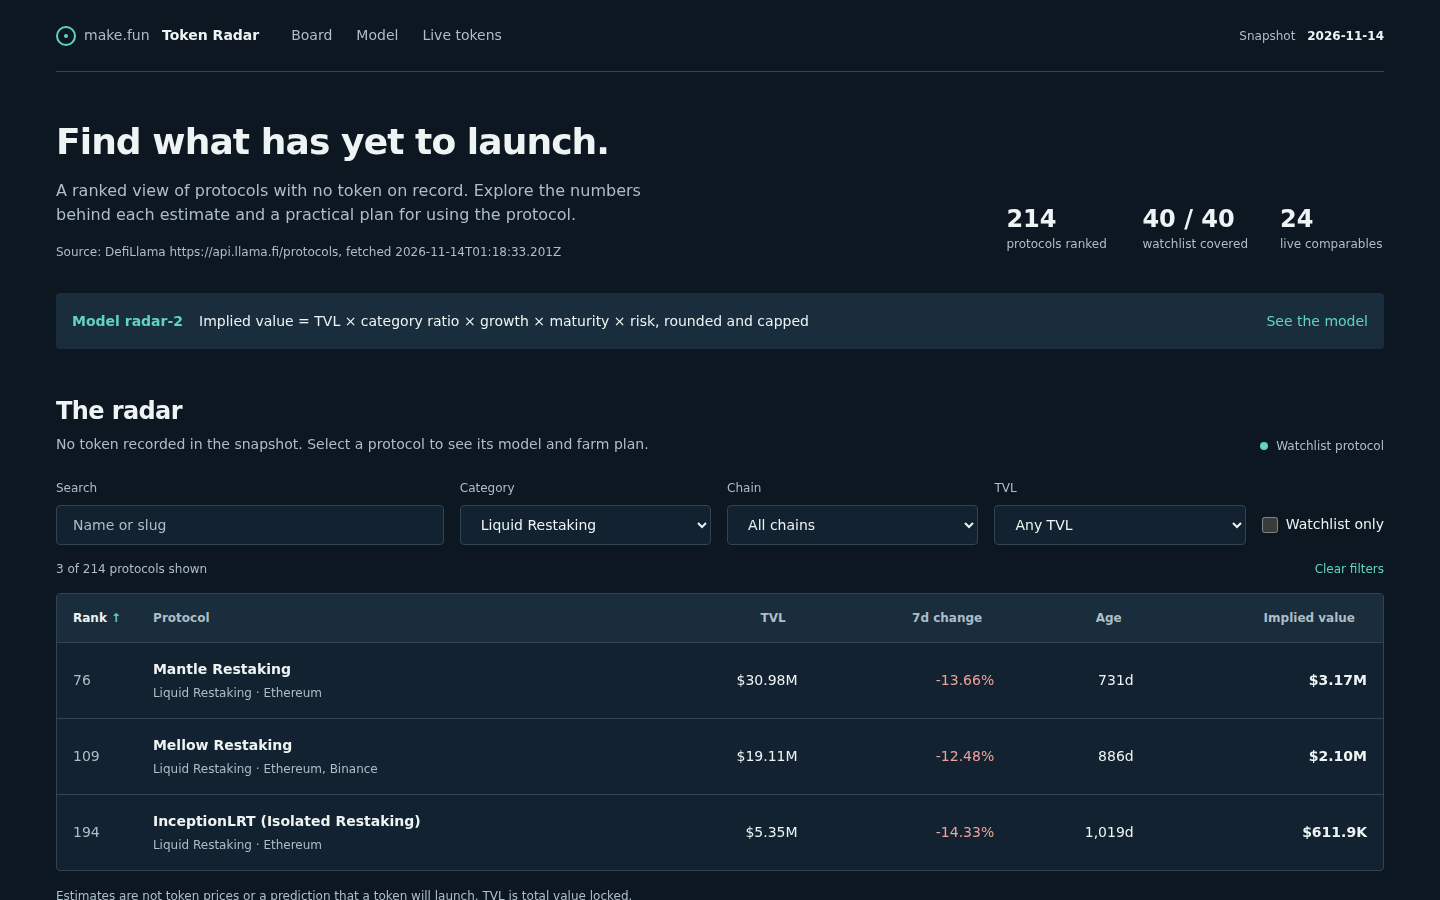
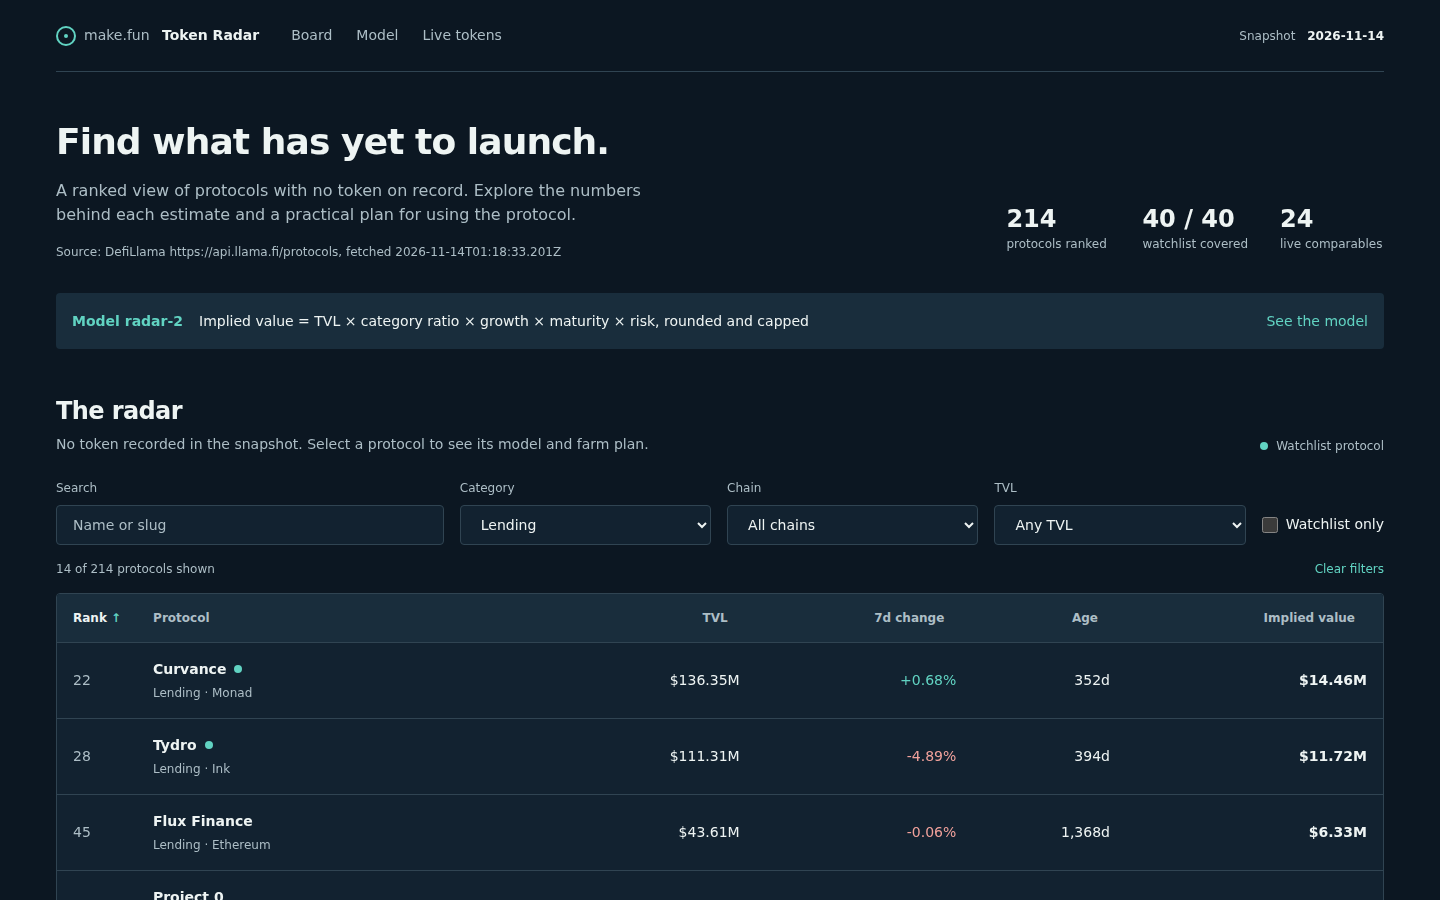
plans: build each farm plan from the protocol's own TVL, chain, trend and age

diff --git a/lib/model.ts b/lib/model.ts
@@ -14,8 +14,9 @@
 // The board includes every watchlist slug and up to 280 eligible pre-token protocols below the floor,
 // selected by TVL. Early candidates exclude CEX, versioned pools, and named wrapped or staking products.
 // The separate live view holds up to 24 market-cap-ranked protocols, excluding CEX.
-// Farm amounts of $25 or $10 and times of 5 to 15 minutes are illustrative, not observed fees or
-// eligibility claims. Network and product fees vary, and no reward is guaranteed.
+// Farm plans follow the recorded TVL band for the test ticket, the first listed chain for gas and
+// bridging, the recorded seven-day change and the listing age. Amounts and times are examples, not
+// observed fees or eligibility claims. Network and product fees vary, and no reward is guaranteed.
 
 /** One protocol in the sealed snapshot. */
 export interface SnapshotProtocol {
@@ -336,60 +337,279 @@ export function stepText(step: FarmStep): string {
 interface FarmContext {
   name: string;
   chain: string;
+  otherChains: string[];
+  category: string;
+  tvl: string;
+  depositText: string;
+  smallText: string;
+  share: string;
+  gas: string;
+  gasRange: string;
+  roundTrip: string;
+  momentum: number | null;
 }
 
-/** Actions are examples, conditional on the protocol actually supporting the product and route. */
+interface ChainGas {
+  range: string;
+  mid: number;
+}
+
+/** Typical mainnet cost of one approval plus one contract call; a plan filter, not a quote. */
+const CHAIN_GAS: Record<string, ChainGas> = {
+  Ethereum: { range: '$2 to $8', mid: 5 },
+  Arbitrum: { range: '$0.05 to $0.40', mid: 0.2 },
+  Optimism: { range: '$0.05 to $0.30', mid: 0.15 },
+  Base: { range: '$0.02 to $0.20', mid: 0.1 },
+  Binance: { range: '$0.05 to $0.30', mid: 0.15 },
+  Polygon: { range: '$0.01 to $0.10', mid: 0.04 },
+  Solana: { range: '$0.01 to $0.05', mid: 0.02 },
+  Avalanche: { range: '$0.05 to $0.60', mid: 0.3 },
+  Bitcoin: { range: '$2 to $10', mid: 6 },
+  Tron: { range: '$1 to $3', mid: 2 },
+  'Hyperliquid L1': { range: '$0.01 to $0.10', mid: 0.04 },
+  Monad: { range: '$0.01 to $0.10', mid: 0.04 },
+  Plasma: { range: '$0.01 to $0.10', mid: 0.04 },
+  Sonic: { range: '$0.01 to $0.10', mid: 0.04 },
+  Linea: { range: '$0.05 to $0.50', mid: 0.2 },
+  Scroll: { range: '$0.05 to $0.50', mid: 0.2 },
+  'zkSync Era': { range: '$0.05 to $0.50', mid: 0.2 },
+  Mantle: { range: '$0.02 to $0.20', mid: 0.08 },
+  Berachain: { range: '$0.02 to $0.20', mid: 0.08 },
+  Unichain: { range: '$0.02 to $0.20', mid: 0.08 },
+  Sui: { range: '$0.01 to $0.10', mid: 0.03 },
+  Celo: { range: '$0.01 to $0.10', mid: 0.03 },
+  Fantom: { range: '$0.01 to $0.10', mid: 0.04 },
+  xDai: { range: '$0.01 to $0.05', mid: 0.02 },
+  Sei: { range: '$0.01 to $0.10', mid: 0.04 },
+  Stellar: { range: '$0.01 to $0.05', mid: 0.02 },
+  Ripple: { range: '$0.01 to $0.05', mid: 0.02 },
+  TON: { range: '$0.01 to $0.05', mid: 0.03 },
+  Cardano: { range: '$0.10 to $0.50', mid: 0.25 },
+  'Robinhood Chain': { range: '$0.05 to $0.50', mid: 0.2 },
+  Arc: { range: '$0.01 to $0.10', mid: 0.04 },
+  Ink: { range: '$0.02 to $0.20', mid: 0.08 },
+  Katana: { range: '$0.01 to $0.10', mid: 0.04 },
+  Flare: { range: '$0.01 to $0.10', mid: 0.04 },
+};
+
+/** Gas for a chain outside the table, grouped by the fee market it resembles. */
+function chainGas(chain: string): ChainGas {
+  const known = CHAIN_GAS[chain];
+  if (known !== undefined) return known;
+  if (/bitcoin|btc|litecoin|dogecoin/i.test(chain)) return { range: '$1 to $10', mid: 4 };
+  if (/solana|sui|aptos|ton|near|stellar|ripple/i.test(chain)) return { range: '$0.01 to $0.10', mid: 0.04 };
+  if (/cosmos|osmosis|injective|kava|neutron|babylon|core|celestia|dydx/i.test(chain)) return { range: '$0.01 to $0.20', mid: 0.06 };
+  if (/eth|linea|scroll|zksync|arbitrum|optimism|base|polygon|gnosis|avalanche|fantom|celo|mantle|blast|berachain|unichain|ink|morph|world|bob|hemi|citrea|fluent|pharos|plume|stable|tempo|monad|plasma|sonic|telos|sei|x layer/i.test(chain)) {
+    return { range: '$0.02 to $0.50', mid: 0.2 };
+  }
+  return { range: '$0.10 to $2', mid: 0.5 };
+}
+
+/** How a deposit reaches the chain, stated as a typical cost rather than a quote. */
+function bridgeNote(chain: string): string {
+  if (/^ethereum$/i.test(chain)) return 'no bridge fee applies while the funds already sit on Ethereum.';
+  return 'if the funds start on Ethereum or another chain, a bridge hop costs about $1 to $5 plus gas on each side, or an exchange withdrawal avoids it.';
+}
+
+/** US dollars with thousands separators, for ticket sizes. */
+function money(n: number): string {
+  return `$${String(Math.round(n)).replace(/\B(?=(\d{3})+(?!\d))/g, ',')}`;
+}
+
+/** A short TVL label for use inside a sentence. */
+function compactUsd(n: number): string {
+  if (n >= 1_000_000_000) return `$${(n / 1_000_000_000).toFixed(2)}B`;
+  if (n >= 1_000_000) return `$${(n / 1_000_000).toFixed(1)}M`;
+  if (n >= 1_000) return `$${(n / 1_000).toFixed(0)}K`;
+  return `$${Math.round(n)}`;
+}
+
+/** The ticket as a share of recorded TVL, at a precision that survives small tickets. */
+function shareOf(part: number, whole: number): string {
+  const pct = (part / whole) * 100;
+  if (pct >= 1) return `${pct.toFixed(2)}%`;
+  if (pct >= 0.01) return `${pct.toFixed(3)}%`;
+  if (pct >= 0.000001) return `${pct.toFixed(6)}%`;
+  return 'less than 0.000001%';
+}
+
+/** An approximate dollar figure that keeps cents below one dollar. */
+function aboutUsd(n: number): string {
+  return n >= 1 ? `about $${Math.round(n)}` : `about $${n.toFixed(2)}`;
+}
+
+interface CapitalBand {
+  label: string;
+  deposit: number;
+  ceiling: string;
+}
+
+/** Test ticket and the price-impact level that would contradict the recorded TVL. */
+function capitalBand(tvl: number): CapitalBand {
+  if (tvl < 10_000_000) return { label: 'under $10M', deposit: 100, ceiling: '1%' };
+  if (tvl < 50_000_000) return { label: '$10M to $50M', deposit: 500, ceiling: '0.5%' };
+  if (tvl < 250_000_000) return { label: '$50M to $250M', deposit: 1_000, ceiling: '0.3%' };
+  return { label: 'above $250M', deposit: 5_000, ceiling: '0.1%' };
+}
+
+/** Wallet review, chain choice and the cost of reaching the first listed chain. */
+function routeStep(c: FarmContext, chainCount: number): FarmStep {
+  const route = chainCount === 0
+    ? 'No chain is recorded, so confirm the network before funding anything.'
+    : chainCount === 1
+      ? 'It is the only chain recorded, so one gas balance covers the whole test and no bridge is needed.'
+      : chainCount === 2
+        ? `The snapshot lists ${c.chain} and ${c.otherChains.join(' and ')}; the plan stays on ${c.chain} so every step shares one network.`
+        : `${chainCount} chains are recorded; this plan uses ${c.chain} for every step so the approval, the deposit and the exit stay on one route.`;
+  return {
+    text: `Open ${c.name} in a fresh wallet on ${c.chain} and find its ${c.category} product. ${route} Gas runs ${c.gasRange} per transaction; ${bridgeNote(c.chain)}`,
+    cost: '$0 of fees to review, plus the bridge fee only if funds must move',
+    time: '10 minutes',
+  };
+}
+
+/** Ticket size for the recorded TVL band, with the price impact that size implies. */
+function fundStep(c: FarmContext, band: CapitalBand): FarmStep {
+  return {
+    text: `Fund ${c.depositText} plus a buffer for gas. The snapshot records ${c.tvl} of TVL, the ${band.label} band, and ${c.depositText} is ${c.share} of that total: any price impact or fee in the preview should sit near that share, and a preview above ${band.ceiling} means the live venue is thinner than the recorded TVL suggests.`,
+    cost: `${c.depositText} test deposit plus ${c.gas}`,
+    time: '15 minutes',
+  };
+}
+
+/** The recorded seven-day change decides whether the next move is a warning or a watch. */
+function momentumStep(c: FarmContext): FarmStep {
+  if (c.momentum === null) {
+    return {
+      text: `The snapshot records no seven-day change for ${c.name}, so treat the trend as unknown rather than stable: read the TVL history in the app and keep the first ticket at ${c.smallText}.`,
+      cost: '$0 of fees to read the chart',
+      time: '5 minutes',
+    };
+  }
+  const figure = `${Math.abs(c.momentum).toFixed(2)}%`;
+  if (c.momentum < -0.05) {
+    return {
+      text: `The snapshot records TVL down ${figure} over seven days at ${c.tvl}. Before ${c.depositText} goes in, check whether the drop is asset prices falling or depositors leaving, and stay at ${c.smallText} until a week closes flat or higher.`,
+      cost: '$0 of fees to read the change',
+      time: '10 minutes',
+    };
+  }
+  if (c.momentum > 0.05) {
+    return {
+      text: `The snapshot records TVL up ${figure} over seven days at ${c.tvl}. Before adding, watch whether the next weekly figure holds and whether fee volume rises with it; TVL can jump from one large deposit without new users.`,
+      cost: '$0 of fees to watch the next print',
+      time: '10 minutes',
+    };
+  }
+  return {
+    text: `The snapshot records TVL flat over seven days at ${c.tvl}, so this is a clean week for the ${c.smallText} test; the thing to watch before adding size is the first move in either direction.`,
+    cost: '$0 of fees to read the change',
+    time: '5 minutes',
+  };
+}
+
+/** A first-week test for new listings, a trend read for mid-age ones, a withdrawal test for old ones. */
+function ageStep(c: FarmContext, age: number | null): FarmStep {
+  if (age === null) {
+    return {
+      text: `No listing date is recorded for ${c.name}, so the record cannot show whether it is early or seasoned: find the deployment date before raising size and keep the first deposit at ${c.smallText}.`,
+      cost: '$0 of fees to check the record',
+      time: '15 minutes',
+    };
+  }
+  if (age < 365) {
+    return {
+      text: `At ${age} days listed, ${c.name} is under a year old, so give it one small first week: deposit ${c.smallText} on day one, withdraw it on day seven, and only then commit the ${c.depositText} ticket.`,
+      cost: `${c.smallText} test deposit plus ${c.roundTrip}`,
+      time: '7 days',
+    };
+  }
+  if (age < 1095) {
+    const months = Math.round(age / 30.4);
+    return {
+      text: `${c.name} has about ${months} months listed, long enough to compare: read its TVL trend over that window and size the ticket from whether ${c.tvl} sits above or below the trend.`,
+      cost: '$0 of fees to read the history',
+      time: '20 minutes',
+    };
+  }
+  return {
+    text: `With ${age} days of record, ${c.name} can stand a real withdrawal test: deposit ${c.smallText}, withdraw it, and read the multi-year TVL trend before trusting the ${c.depositText} ticket to it.`,
+    cost: `${c.smallText} test deposit plus ${c.roundTrip}`,
+    time: '1 day',
+  };
+}
+
+/** Each sector keeps its own action, bound to the ticket, chain and category the row records. */
 const FARM_ACTIONS: Record<Sector, (c: FarmContext) => FarmStep[]> = {
-  Lending: ({ name, chain }) => [
-    { text: `Supply $25 of a supported asset to a ${name} lending market on ${chain}, if its minimum permits.`, cost: '$25 example deposit plus variable network fees', time: '10 minutes' },
-    { text: `After a week, check the ${name} position and withdraw a small amount if withdrawals are available.`, cost: 'Variable network fees and possible deposit losses', time: '5 minutes' },
+  Lending: (c) => [
+    { text: `Supply ${c.depositText} of an asset ${c.name} lists on ${c.chain} to the supply side of its ${c.category} market, then note the supply rate and collateral factor the app shows.`, cost: `${c.depositText} supplied plus ${c.gas}`, time: '15 minutes' },
+    { text: `If ${c.name} shows an open borrow market, borrow at most ${c.smallText} against the ${c.depositText} supplied, then check the health factor and liquidation price it reports.`, cost: `${c.smallText} borrowed plus ${c.gas}`, time: '20 minutes' },
   ],
-  DEX: ({ name, chain }) => [
-    { text: `Swap $10 of a supported token through a ${name} pool on ${chain}; review the price before confirming.`, cost: '$10 example trade plus variable swap and network fees', time: '5 minutes' },
-    { text: `If ${name} offers liquidity pools, add $25 across the two pool assets and review impermanent loss.`, cost: '$25 example liquidity plus variable network fees', time: '10 minutes' },
+  DEX: (c) => [
+    { text: `Swap ${c.smallText} through one ${c.name} pool on ${c.chain} and read the quoted price impact before signing; compare it with the ${c.share} of TVL that ticket represents.`, cost: `${c.smallText} swapped plus ${c.gas}`, time: '10 minutes' },
+    { text: `If ${c.name} shows a two-asset pool, add ${c.depositText} split across both sides on ${c.chain}, then write down the fee tier and the impermanent-loss range the app reports.`, cost: `${c.depositText} of liquidity plus ${c.gas}`, time: '20 minutes' },
   ],
-  Yield: ({ name, chain }) => [
-    { text: `Deposit $25 of a supported asset in a ${name} vault on ${chain}, if its minimum permits.`, cost: '$25 example deposit plus variable network fees', time: '10 minutes' },
-    { text: `Check the ${name} vault balance after a week and withdraw a small amount if the vault allows it.`, cost: 'Variable network fees and possible strategy losses', time: '5 minutes' },
+  Yield: (c) => [
+    { text: `Deposit ${c.depositText} into one ${c.name} ${c.category} product on ${c.chain}, after reading which strategy it runs and who can pause withdrawals.`, cost: `${c.depositText} deposited plus ${c.gas}`, time: '15 minutes' },
+    { text: `Leave ${c.name} a week, then withdraw ${c.smallText} and compare what came back with a plain hold of the same asset; that difference is the only return figure worth recording.`, cost: `${c.smallText} withdrawn plus ${c.gas}`, time: '7 days' },
   ],
-  Perp: ({ name, chain }) => [
-    { text: `If ${name} supports derivatives on ${chain}, deposit $25 of accepted margin and check the rules.`, cost: '$25 example margin plus variable network fees', time: '10 minutes' },
-    { text: `If a suitable market is available, open and close its smallest position at low leverage.`, cost: 'Variable trading fees and possible loss of margin', time: '10 minutes' },
+  Perp: (c) => [
+    { text: `Deposit ${c.depositText} of margin into ${c.name} on ${c.chain} and read the maximum leverage and liquidation price the market shows before opening anything.`, cost: `${c.depositText} of margin plus ${c.gas}`, time: '15 minutes' },
+    { text: `Open the smallest position ${c.name} allows at 2x or less, close it in the same session, and record the fees charged on the full round trip.`, cost: `${c.smallText} of position plus ${c.gas}`, time: '20 minutes' },
   ],
-  CDP: ({ name, chain }) => [
-    { text: `Supply $25 of accepted collateral to a ${name} vault on ${chain}, if its minimum permits.`, cost: '$25 example collateral plus variable network fees', time: '10 minutes' },
-    { text: `If the vault permits it, mint a small amount of its stablecoin and keep a wide liquidation buffer.`, cost: 'Variable network and stability fees; collateral is at risk', time: '10 minutes' },
+  CDP: (c) => [
+    { text: `Supply ${c.depositText} of a collateral asset ${c.name} accepts on ${c.chain} to open a vault, then read the liquidation threshold, minimum ratio and stability fee it displays.`, cost: `${c.depositText} of collateral plus ${c.gas}`, time: '20 minutes' },
+    { text: `Mint at most ${c.smallText} of stablecoin against that ${c.name} vault, keep the ratio well above the minimum, and repay all of it before the week ends.`, cost: `${c.smallText} minted plus ${c.gas}`, time: '30 minutes' },
   ],
-  'Liquid Staking-adjacent': ({ name, chain }) => [
-    { text: `Stake $25 of the asset supported by ${name} on ${chain} if the minimum and lockup are acceptable.`, cost: '$25 example stake plus variable network fees', time: '10 minutes' },
-    { text: `Check the ${name} receipt and withdrawal queue; request a small unstake if the product allows it.`, cost: 'Variable network fees and possible withdrawal delay', time: '5 minutes' },
+  'Liquid Staking-adjacent': (c) => [
+    { text: `Stake ${c.depositText} of an asset ${c.name} accepts on ${c.chain}, then read the validator set, commission and unbonding terms listed for the ${c.category} product.`, cost: `${c.depositText} staked plus ${c.gas}`, time: '15 minutes' },
+    { text: `If ${c.name} returns a receipt token, compare its balance with the ${c.depositText} staked, then request a ${c.smallText} unstake to see the queue the app reports.`, cost: `${c.smallText} unstaked plus ${c.gas}`, time: '1 day' },
   ],
-  'Bridge-adjacent': ({ name, chain }) => [
-    { text: `Use ${name} to bridge $25 of a supported asset on a route that includes ${chain}, if available.`, cost: '$25 example transfer plus variable bridge and network fees', time: '10 minutes' },
-    { text: `Check the destination wallet for the transfer, then return a small amount if a return route exists.`, cost: 'Variable bridge and network fees on the return route', time: '10 minutes' },
+  'Bridge-adjacent': (c) => [
+    { text: `Send ${c.depositText} of an asset ${c.name} supports over a route that ends on ${c.chain}, and read the bridge fee plus destination gas estimate before approving.`, cost: `${c.depositText} transferred plus ${c.gas}`, time: '20 minutes' },
+    { text: `Confirm the arrival in the destination wallet, then send ${c.smallText} back through ${c.name} to measure the round-trip time and what it charges.`, cost: `${c.smallText} returned plus ${c.gas}`, time: '30 minutes' },
   ],
-  Restaking: ({ name, chain }) => [
-    { text: `Review slashing and lockup terms, then restake $25 through ${name} on ${chain} if permitted.`, cost: '$25 example stake plus variable network fees and slashing risk', time: '15 minutes' },
-    { text: `Check the ${name} receipt and, if available, request a partial withdrawal and note the unbonding time.`, cost: 'Variable network fees and possible withdrawal delay', time: '5 minutes' },
+  Restaking: (c) => [
+    { text: `Read the slashing and unbonding terms ${c.name} lists, then restake ${c.depositText} on ${c.chain} only if the operator set and lockup are acceptable.`, cost: `${c.depositText} restaked plus ${c.gas}`, time: '20 minutes' },
+    { text: `Request a ${c.smallText} partial withdrawal from ${c.name} after the restake, note the unbonding time and fee the app reports, and keep the receipt where you can find it.`, cost: `${c.smallText} withdrawn plus ${c.gas}`, time: '1 day' },
   ],
-  RWA: ({ name, chain }) => [
-    { text: `Check ${name} eligibility, identity requirements, deposit minimum and redemption rules on ${chain}.`, cost: '$0 to review; identity checks may be required', time: '10 minutes' },
-    { text: `If eligible and the minimum permits, deposit $25 into a supported ${name} real-world asset vault.`, cost: '$25 example deposit plus variable fees; minimums may be higher', time: '15 minutes' },
+  RWA: (c) => [
+    { text: `Read ${c.name} eligibility, jurisdiction and redemption terms on ${c.chain} before depositing, because an identity check can block a ${c.depositText} ticket after the money is already there.`, cost: '$0 of fees to read the terms', time: '15 minutes' },
+    { text: `If eligible and the minimum is at or below ${c.depositText}, deposit that amount into the ${c.name} ${c.category} product and note the redemption window the app states.`, cost: `${c.depositText} deposited plus ${c.gas}`, time: '30 minutes' },
   ],
-  Other: ({ name, chain }) => [
-    { text: `Review the products ${name} lists on ${chain} and select one with terms and fees you understand.`, cost: '$0 to review the available product', time: '10 minutes' },
-    { text: `If the selected ${name} product accepts deposits, deposit $25 and check the resulting balance.`, cost: '$25 example deposit plus variable network fees', time: '10 minutes' },
+  Other: (c) => [
+    { text: `Read what ${c.name} offers on ${c.chain} under the ${c.category} label, and pick one product whose fees and exit terms you can repeat without the marketing page.`, cost: '$0 of fees to review the product', time: '15 minutes' },
+    { text: `If that ${c.name} product accepts deposits, deposit ${c.depositText}, confirm the balance appears, then withdraw ${c.smallText} the same day to test the exit.`, cost: `${c.depositText} deposited plus ${c.gas}`, time: '30 minutes' },
   ],
 };
 
-/** Four actionable steps from the recorded category and chain, with illustrative costs and times. */
-export function farmSteps(p: SnapshotProtocol, _age: number | null): FarmStep[] {
+/** Six steps from the row's own TVL band, chain, category, seven-day change and listing age. */
+export function farmSteps(p: SnapshotProtocol, age: number | null): FarmStep[] {
   const name = p.name.slice(0, 100);
-  const chain = (p.chains[0] || 'a supported network').slice(0, 80);
+  const chains = p.chains.map((chain) => chain.trim()).filter((chain) => chain.length > 0);
+  const chain = (chains[0] ?? 'a supported network').slice(0, 80);
+  const gas = chainGas(chain);
+  const band = capitalBand(p.tvl_usd);
+  const context: FarmContext = {
+    name,
+    chain,
+    otherChains: chains.slice(1, 3).map((other) => other.slice(0, 60)),
+    category: categoryOf(p.category).slice(0, 60),
+    tvl: compactUsd(p.tvl_usd),
+    depositText: money(band.deposit),
+    smallText: money(Math.max(20, Math.round(band.deposit / 5))),
+    share: shareOf(band.deposit, p.tvl_usd),
+    gas: `${aboutUsd(gas.mid)} of gas`,
+    gasRange: gas.range,
+    roundTrip: `${aboutUsd(gas.mid * 2)} of gas for the deposit and withdrawal`,
+    momentum: p.change_7d,
+  };
   return [
-    { text: `Open the ${name} app, choose ${chain}, and review its supported assets before connecting a compatible wallet.`, cost: '$0 before any transaction', time: '5 minutes' },
-    { text: `Fund a compatible wallet on ${chain} with an asset the app accepts and reserve funds for network fees.`, cost: '$25 example capital plus variable network fees', time: '10 minutes' },
-    ...FARM_ACTIONS[sectorOf(p.category)]({ name, chain }),
+    routeStep(context, chains.length),
+    fundStep(context, band),
+    ...FARM_ACTIONS[sectorOf(p.category)](context),
+    momentumStep(context),
+    ageStep(context, age),
   ];
 }
 
@@ -516,7 +736,7 @@ export function buildRadar(snapshot: Snapshot, model: ModelConstants = MODEL): {
       'Growth is clamped to -60% through 120% and weighted by 0.5; missing growth is treated as 0%.',
       'Maturity rises from 0.6 to 1.0 over 1,095 days; missing listing age uses 365 days.',
       'The sector risk adjustment is subjective. Implied value is an estimate, not a token price or a launch prediction.',
-      'Farm amounts and times are examples, fees vary, product availability is not verified, and a reward is not guaranteed.',
+      'Farm tickets follow the recorded TVL band; amounts and times are examples, fees vary, product availability is not verified, and a reward is not guaranteed.',
     ],
   };
   return { board, radar };
